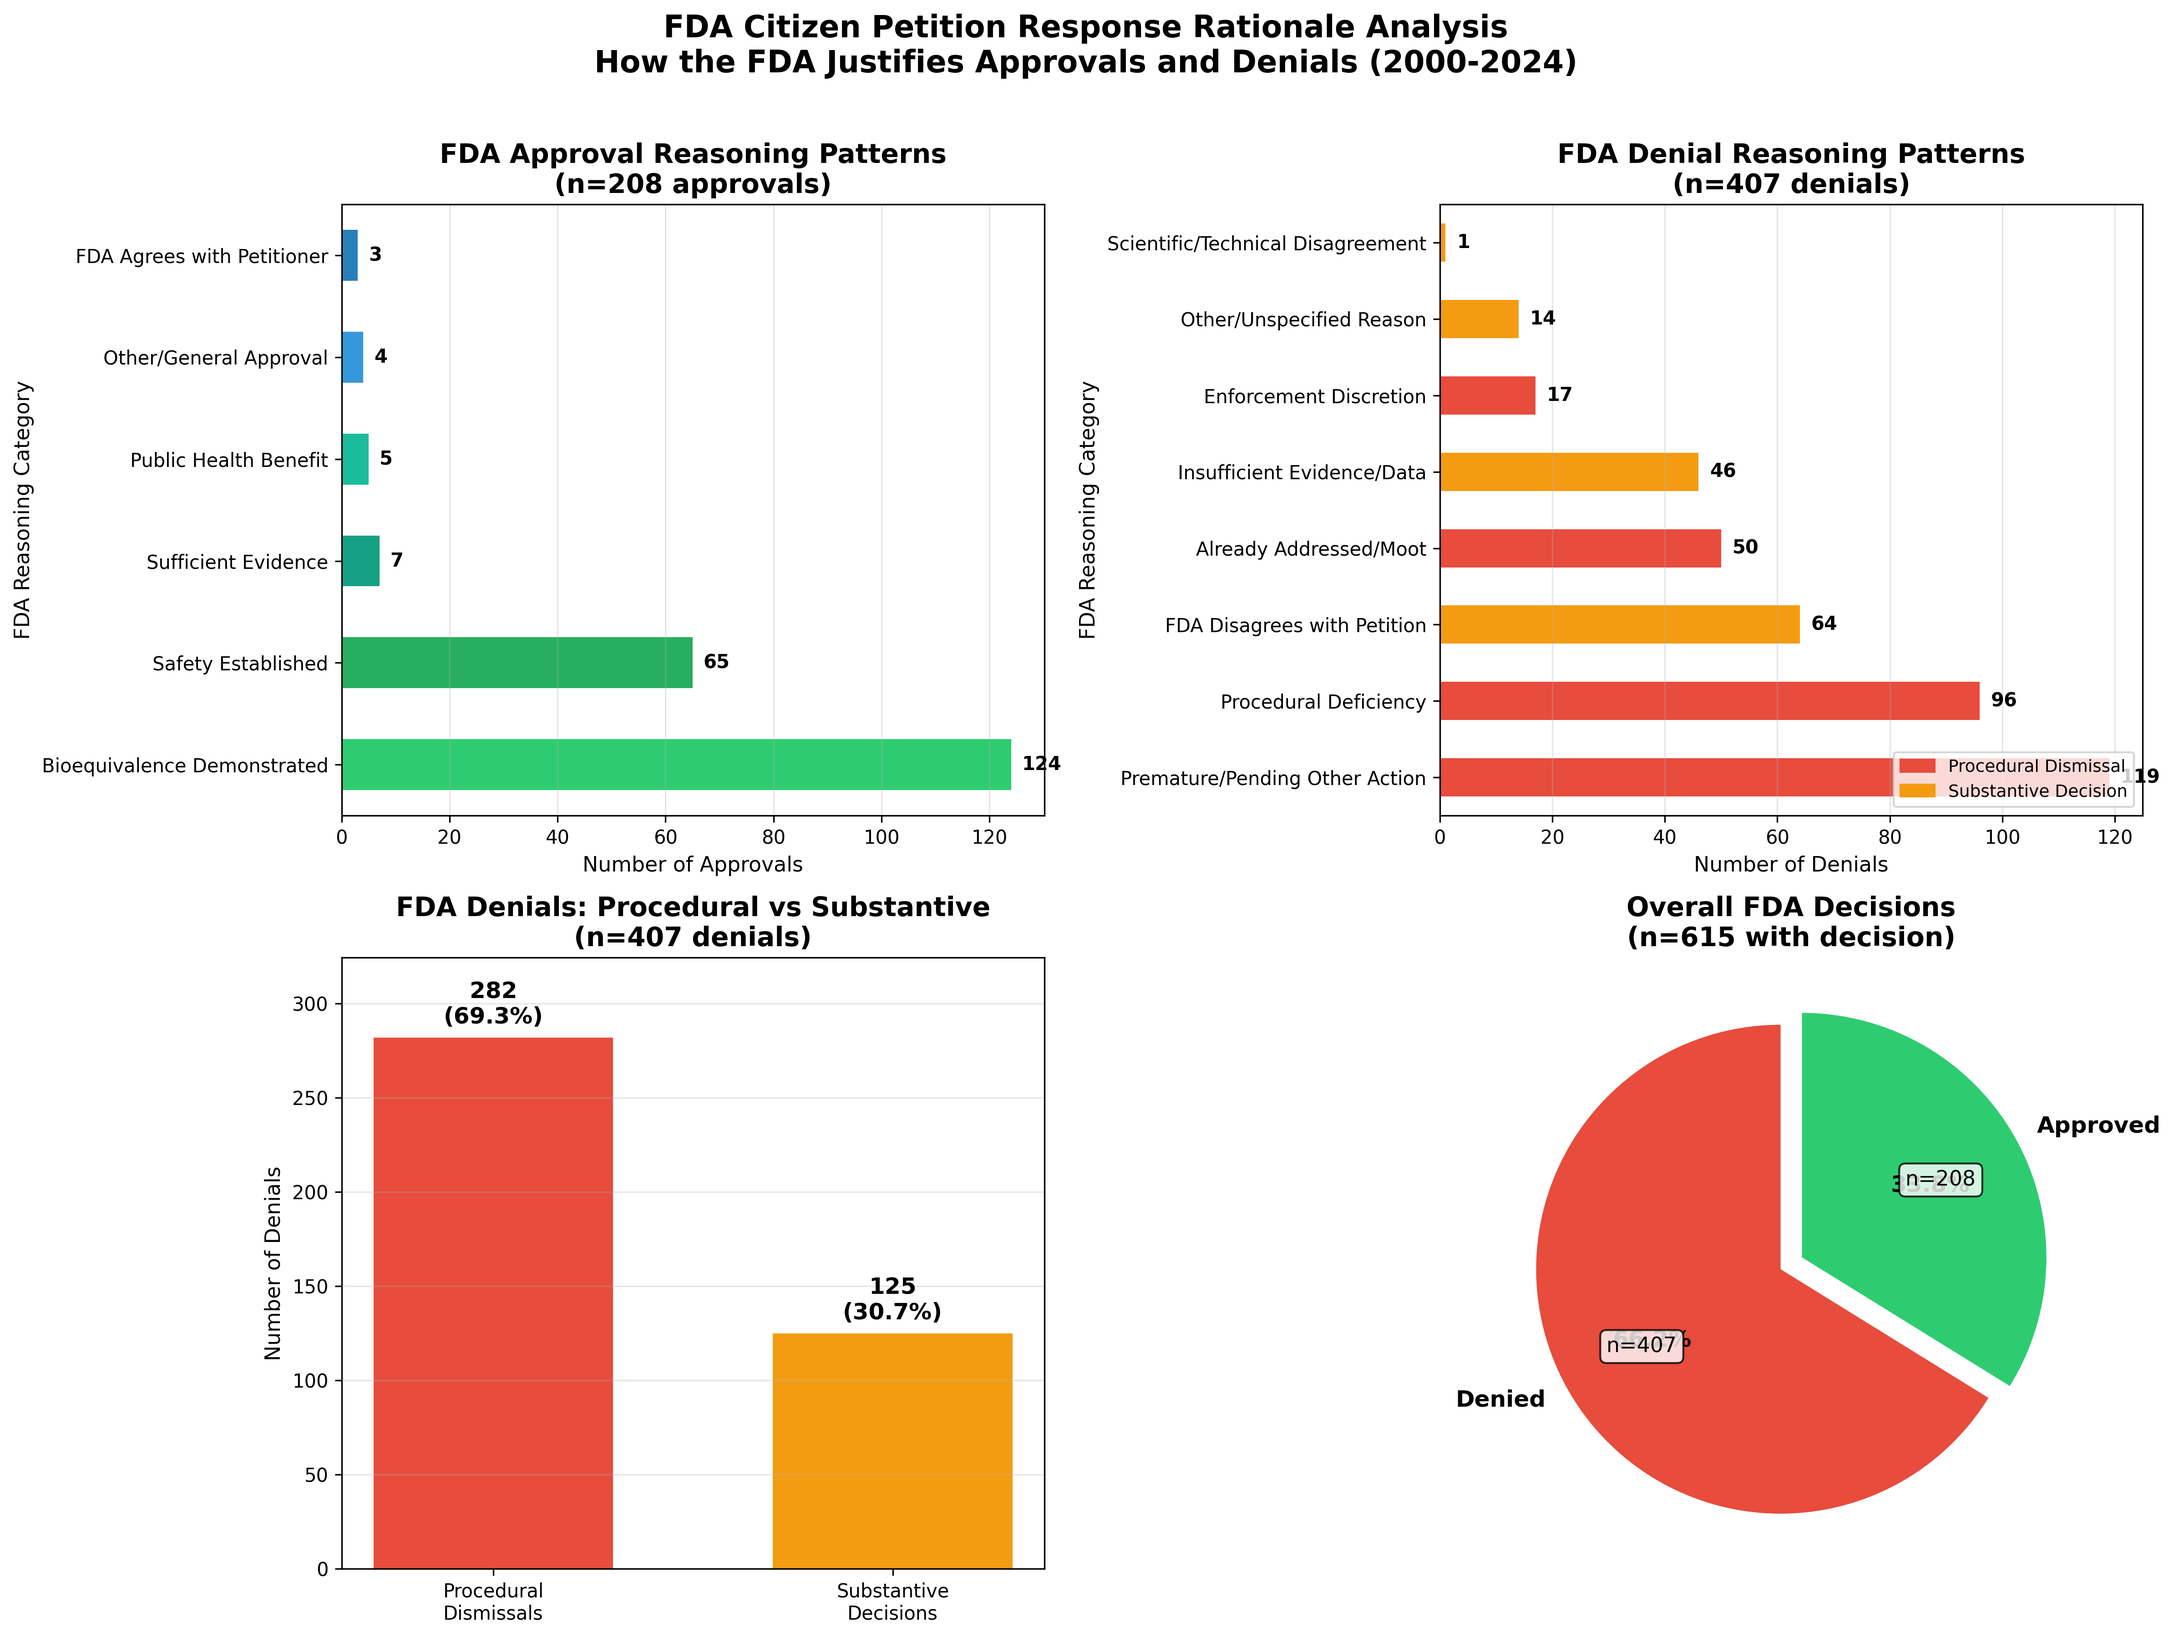
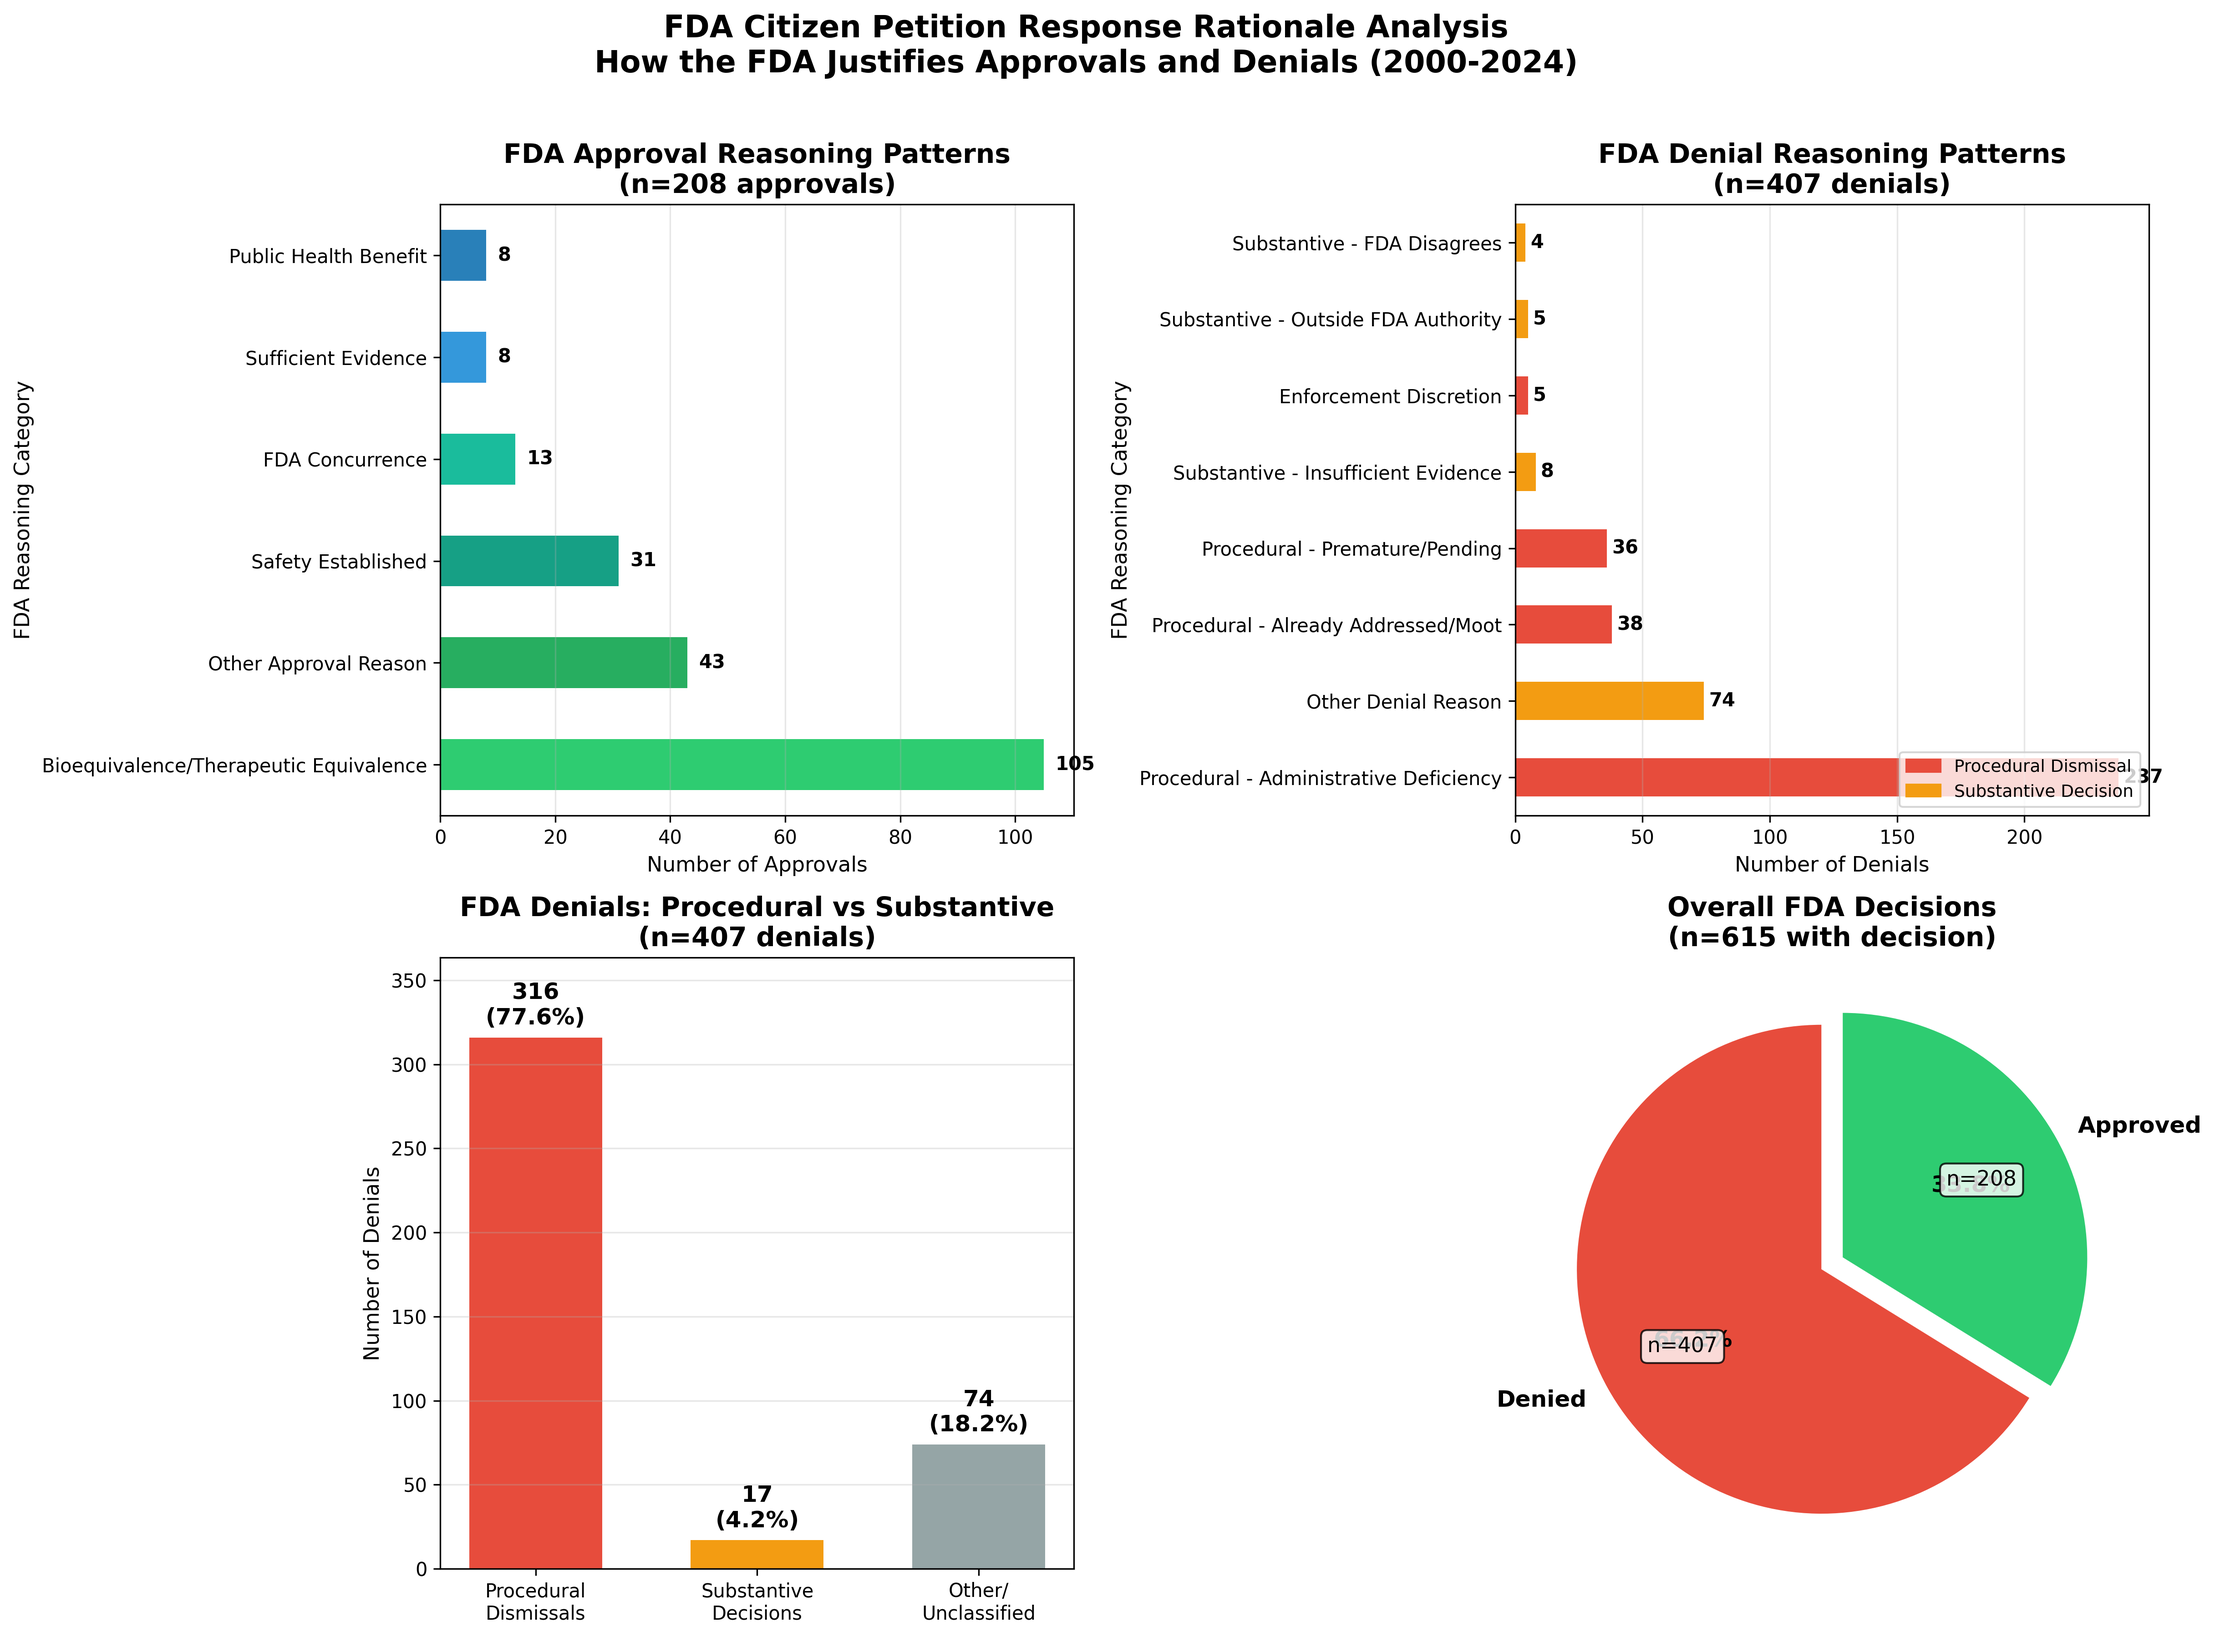
Update visualizations to use categories from CATEGORY_DEFINITIONS.md

diff --git a/visualize_rationales.py b/visualize_rationales.py
@@ -1,14 +1,15 @@
 #!/usr/bin/env python3
 """
 Visualize FDA Rationale Patterns
+Uses enhanced categories from CATEGORY_DEFINITIONS.md
 """
 
 import pandas as pd
 import matplotlib.pyplot as plt
 import matplotlib.patches as mpatches
 
-# Load data
-df = pd.read_csv('/Users/avani/FDA_Analysis/fda_rationales_dataset.csv')
+# Load data with enhanced categories
+df = pd.read_csv('/Users/avani/FDA_Analysis/fda_rationales_enhanced_categories.csv')
 
 print("Creating visualizations of FDA rationale patterns...")
 
@@ -22,15 +23,12 @@ fig = plt.figure(figsize=(16, 12))
 ax1 = plt.subplot(2, 2, 1)
 
 approvals = df[df['Decision'] == 'Approved']
-approval_counts = approvals['FDA_Reasoning_Category'].value_counts()
-
-# Clean up labels
-approval_counts.index = approval_counts.index.str.replace('APPROVAL: ', '')
+approval_counts = approvals['Enhanced_Category'].value_counts()
 
 colors_approval = ['#2ecc71', '#27ae60', '#16a085', '#1abc9c', '#3498db', '#2980b9']
 approval_counts.plot(kind='barh', ax=ax1, color=colors_approval[:len(approval_counts)])
 
-ax1.set_title('FDA Approval Reasoning Patterns\n(n=208 approvals)', fontsize=14, fontweight='bold')
+ax1.set_title('FDA Approval Reasoning Patterns\n(n=' + str(len(approvals)) + ' approvals)', fontsize=14, fontweight='bold')
 ax1.set_xlabel('Number of Approvals', fontsize=11)
 ax1.set_ylabel('FDA Reasoning Category', fontsize=11)
 ax1.grid(axis='x', alpha=0.3)
@@ -46,23 +44,26 @@ for i, v in enumerate(approval_counts):
 ax2 = plt.subplot(2, 2, 2)
 
 denials = df[df['Decision'] == 'Denied']
-denial_counts = denials['FDA_Reasoning_Category'].value_counts()
+denial_counts = denials['Enhanced_Category'].value_counts()
 
-# Clean up labels and color by type
-denial_counts.index = denial_counts.index.str.replace('DENIAL: ', '')
+# Color procedural vs substantive based on CATEGORY_DEFINITIONS.md
+procedural_categories = [
+    'Procedural - Premature/Pending',
+    'Procedural - Administrative Deficiency',
+    'Procedural - Already Addressed/Moot',
+    'Enforcement Discretion'
+]
 
-# Color procedural vs substantive
-procedural_categories = ['Premature/Pending Other Action', 'Procedural Deficiency', 'Already Addressed/Moot', 'Enforcement Discretion']
 colors_denial = []
 for category in denial_counts.index:
-    if any(proc in category for proc in procedural_categories):
+    if category in procedural_categories:
         colors_denial.append('#e74c3c')  # Red for procedural
     else:
         colors_denial.append('#f39c12')  # Orange for substantive
 
 denial_counts.plot(kind='barh', ax=ax2, color=colors_denial)
 
-ax2.set_title('FDA Denial Reasoning Patterns\n(n=407 denials)', fontsize=14, fontweight='bold')
+ax2.set_title('FDA Denial Reasoning Patterns\n(n=' + str(len(denials)) + ' denials)', fontsize=14, fontweight='bold')
 ax2.set_xlabel('Number of Denials', fontsize=11)
 ax2.set_ylabel('FDA Reasoning Category', fontsize=11)
 ax2.grid(axis='x', alpha=0.3)
@@ -82,16 +83,17 @@ ax2.legend(handles=[procedural_patch, substantive_patch], loc='lower right', fon
 
 ax3 = plt.subplot(2, 2, 3)
 
-# Categorize denials as procedural or substantive
-procedural_denials = denials[denials['FDA_Reasoning_Category'].str.contains('Premature|Procedural|Moot|Enforcement')]
-substantive_denials = denials[~denials['FDA_Reasoning_Category'].str.contains('Premature|Procedural|Moot|Enforcement')]
+# Categorize denials as procedural or substantive based on CATEGORY_DEFINITIONS.md
+procedural_denials = denials[denials['Enhanced_Category'].isin(procedural_categories)]
+substantive_denials = denials[~denials['Enhanced_Category'].isin(procedural_categories + ['Other Denial Reason'])]
+other_denials = denials[denials['Enhanced_Category'] == 'Other Denial Reason']
 
-categories = ['Procedural\nDismissals', 'Substantive\nDecisions']
-counts = [len(procedural_denials), len(substantive_denials)]
+categories = ['Procedural\nDismissals', 'Substantive\nDecisions', 'Other/\nUnclassified']
+counts = [len(procedural_denials), len(substantive_denials), len(other_denials)]
 percentages = [c/len(denials)*100 for c in counts]
 
-bars = ax3.bar(categories, counts, color=['#e74c3c', '#f39c12'], width=0.6)
-ax3.set_title('FDA Denials: Procedural vs Substantive\n(n=407 denials)', fontsize=14, fontweight='bold')
+bars = ax3.bar(categories, counts, color=['#e74c3c', '#f39c12', '#95a5a6'], width=0.6)
+ax3.set_title('FDA Denials: Procedural vs Substantive\n(n=' + str(len(denials)) + ' denials)', fontsize=14, fontweight='bold')
 ax3.set_ylabel('Number of Denials', fontsize=11)
 ax3.grid(axis='y', alpha=0.3)
 
@@ -124,13 +126,14 @@ wedges, texts, autotexts = ax4.pie(main_decisions, labels=main_decisions.index,
                                       colors=colors, explode=explode,
                                       textprops={'fontsize': 12, 'fontweight': 'bold'})
 
-ax4.set_title('Overall FDA Decisions\n(n=615 with decision)', fontsize=14, fontweight='bold')
+ax4.set_title('Overall FDA Decisions\n(n=' + str(main_decisions.sum()) + ' with decision)', fontsize=14, fontweight='bold')
 
 # Add counts
 for i, (wedge, count) in enumerate(zip(wedges, main_decisions)):
     angle = (wedge.theta2 - wedge.theta1) / 2. + wedge.theta1
-    x = wedge.r * 0.7 * plt.np.cos(plt.np.deg2rad(angle))
-    y = wedge.r * 0.7 * plt.np.sin(plt.np.deg2rad(angle))
+    import numpy as np
+    x = wedge.r * 0.7 * np.cos(np.deg2rad(angle))
+    y = wedge.r * 0.7 * np.sin(np.deg2rad(angle))
     ax4.text(x, y, f'n={count}', ha='center', va='center',
              fontsize=11, bbox=dict(boxstyle='round', facecolor='white', alpha=0.8))
 
@@ -156,11 +159,10 @@ print(f"✓ Saved: {output_path}")
 fig2, (ax_top, ax_bottom) = plt.subplots(2, 1, figsize=(14, 10))
 
 # Top: All approval categories
-approval_counts_all = approvals['FDA_Reasoning_Category'].value_counts()
-approval_counts_all.index = approval_counts_all.index.str.replace('APPROVAL: ', '')
+approval_counts_all = approvals['Enhanced_Category'].value_counts()
 
 approval_counts_all.plot(kind='bar', ax=ax_top, color='#2ecc71', width=0.7)
-ax_top.set_title('FDA Approval Reasoning - Detailed Breakdown (n=208)',
+ax_top.set_title('FDA Approval Reasoning - Detailed Breakdown (n=' + str(len(approvals)) + ')',
                  fontsize=13, fontweight='bold')
 ax_top.set_ylabel('Number of Approvals', fontsize=11)
 ax_top.set_xlabel('')
@@ -172,18 +174,17 @@ for i, v in enumerate(approval_counts_all):
                 fontsize=10, fontweight='bold')
 
 # Bottom: All denial categories with color coding
-denial_counts_all = denials['FDA_Reasoning_Category'].value_counts()
-denial_counts_all.index = denial_counts_all.index.str.replace('DENIAL: ', '')
+denial_counts_all = denials['Enhanced_Category'].value_counts()
 
 colors_detailed = []
 for category in denial_counts_all.index:
-    if any(proc in category for proc in procedural_categories):
+    if category in procedural_categories:
         colors_detailed.append('#e74c3c')
     else:
         colors_detailed.append('#f39c12')
 
 denial_counts_all.plot(kind='bar', ax=ax_bottom, color=colors_detailed, width=0.7)
-ax_bottom.set_title('FDA Denial Reasoning - Detailed Breakdown (n=407)\n' +
+ax_bottom.set_title('FDA Denial Reasoning - Detailed Breakdown (n=' + str(len(denials)) + ')\n' +
                     'Red = Procedural Dismissal | Orange = Substantive Decision',
                     fontsize=13, fontweight='bold')
 ax_bottom.set_ylabel('Number of Denials', fontsize=11)
